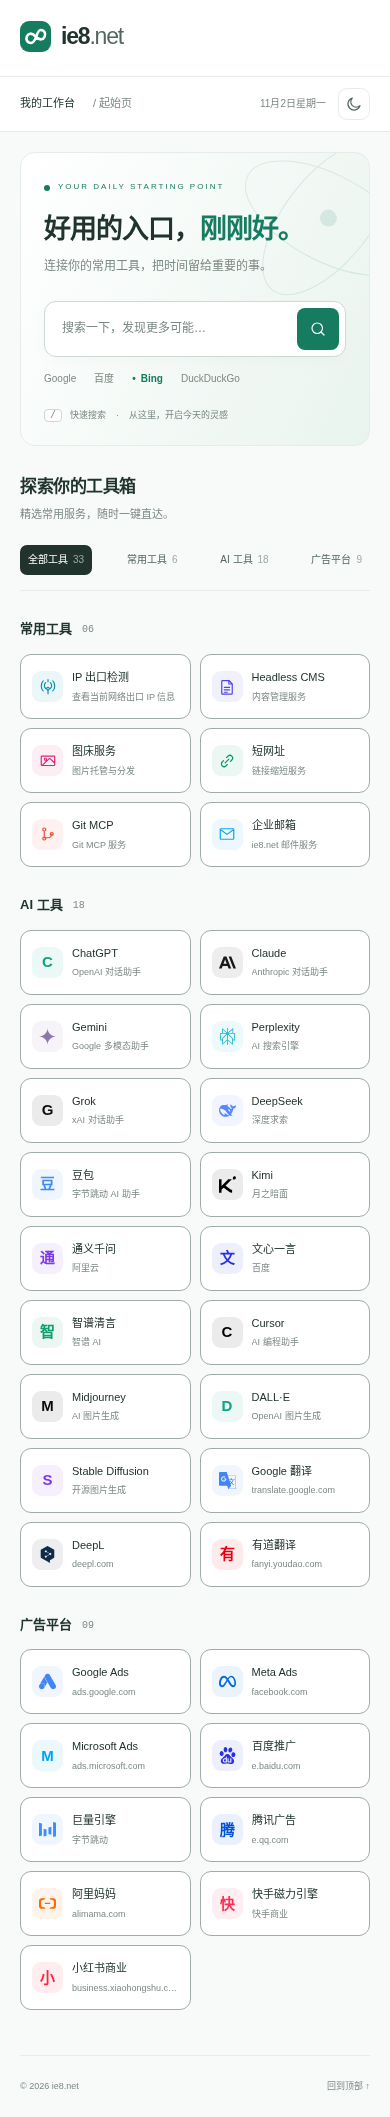
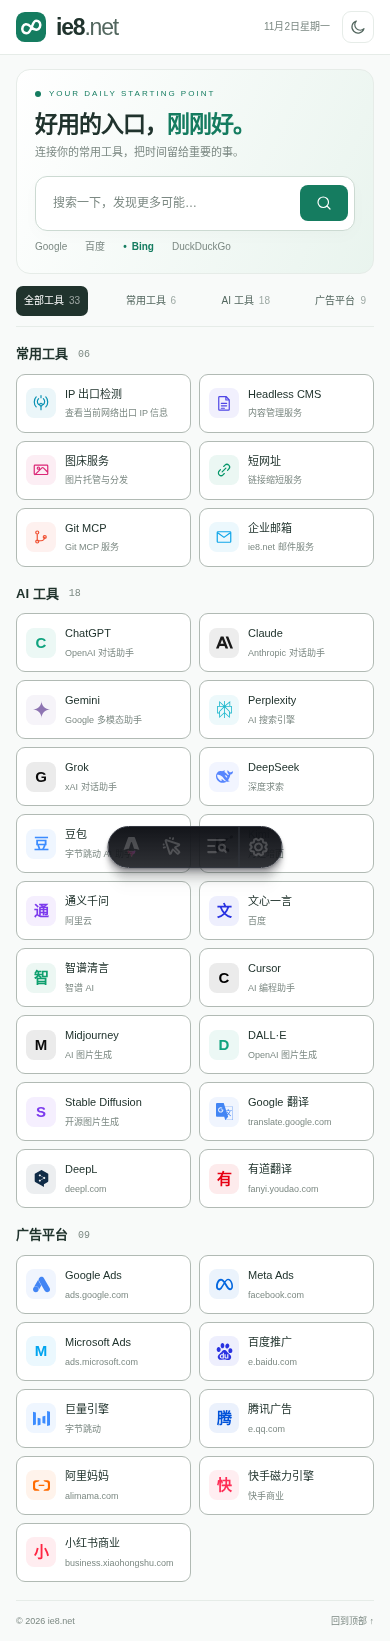
Remove sidebar and fit directory into one desktop screen (#2)

diff --git a/src/styles/global.css b/src/styles/global.css
@@ -246,17 +246,6 @@ a:focus-visible {
   height: 20px;
   display: block;
 }
-.sidebar {
-  position: fixed;
-  inset: 0 auto 0 0;
-  width: 226px;
-  background: var(--surface);
-  border-right: 1px solid var(--line);
-  padding: 34px 22px;
-  display: flex;
-  flex-direction: column;
-  z-index: 30;
-}
 .brand-home {
   padding: 0 9px;
 }
@@ -276,56 +265,6 @@ a:focus-visible {
   font-weight: 400;
   color: var(--text-2);
 }
-.sidebar-label {
-  font-size: 10px;
-  letter-spacing: 2px;
-  color: var(--text-muted);
-  margin: 55px 14px 16px;
-}
-.side-nav {
-  display: flex;
-  flex-direction: column;
-  gap: 8px;
-}
-.side-nav a {
-  display: flex;
-  align-items: center;
-  gap: 13px;
-  padding: 12px 15px;
-  border-radius: 9px;
-  color: var(--text-2);
-  font-size: 13px;
-}
-.side-nav a:hover,
-.side-nav a.is-active {
-  background: var(--accent-soft);
-  color: var(--accent);
-}
-.side-nav a > span {
-  margin-left: auto;
-}
-.sidebar-bottom {
-  margin-top: auto;
-  padding: 25px 12px 0;
-}
-.mini-mark {
-  font-size: 38px;
-  color: var(--line-strong);
-  font-weight: 600;
-}
-.sidebar-bottom strong {
-  font-size: 11px;
-  font-weight: 500;
-}
-.sidebar-bottom p {
-  font-size: 10px;
-  color: var(--text-muted);
-  margin: 6px 0 24px;
-}
-.sidebar-bottom a {
-  font-size: 11px;
-  color: var(--text-muted);
-}
 .workspace {
   margin-left: 226px;
 }
@@ -338,10 +277,6 @@ a:focus-visible {
   font-size: 12px;
   border-bottom: 1px solid var(--line);
   background: var(--surface);
-}
-.breadcrumb {
-  color: var(--text-muted);
-  margin-left: 15px;
 }
 .topbar-actions {
   display: flex;
@@ -849,5 +784,206 @@ h1 > span {
   *::before,
   *::after {
     transition: none !important;
+  }
+}
+
+/* Compact directory: all 33 links remain visible without a sidebar. */
+.workspace {
+  margin-left: 0;
+}
+.topbar {
+  height: 58px;
+  padding: 0 32px;
+}
+.brand-home {
+  padding: 0;
+}
+.logo-mark {
+  width: 30px;
+  height: 30px;
+}
+.logo-word {
+  font-size: 23px;
+}
+.page-content {
+  max-width: 1600px;
+  padding: 18px 32px 0;
+}
+.hero-band {
+  padding: 21px 26px;
+  border-radius: 14px;
+}
+.hero-band-inner {
+  max-width: none;
+  display: grid;
+  grid-template-columns: 1fr minmax(380px, 1fr);
+  column-gap: 40px;
+  align-items: center;
+}
+.eyebrow {
+  grid-column: 1;
+  font-size: 8px;
+}
+h1 {
+  grid-column: 1;
+  font-size: 26px;
+  margin: 8px 0 3px;
+}
+.tagline {
+  grid-column: 1;
+  margin: 0;
+  font-size: 11px;
+}
+.hero-search {
+  grid-column: 2;
+  grid-row: 1 / 4;
+}
+.hero-orbit,
+.search-hint {
+  display: none;
+}
+.engine-tabs {
+  margin-top: 8px;
+}
+.search-submit {
+  padding: 9px 15px;
+}
+#search-input {
+  padding: 9px 12px;
+}
+.cat-nav {
+  margin-top: 14px;
+  padding-bottom: 10px;
+}
+.section {
+  margin-top: 15px;
+}
+.section-title {
+  margin-bottom: 9px;
+}
+.link-grid {
+  grid-template-columns: repeat(6, minmax(0, 1fr));
+  gap: 8px;
+}
+.link-item {
+  padding: 11px 10px;
+  gap: 9px;
+  border-radius: 9px;
+}
+.card-icon-mono {
+  width: 30px;
+  height: 30px;
+  border-radius: 8px;
+  font-size: 15px;
+}
+.card-icon-mono .icon {
+  width: 17px;
+  height: 17px;
+}
+.link-name {
+  font-size: 12px;
+}
+.link-desc {
+  font-size: 10px;
+}
+.card-arrow {
+  display: none;
+}
+.site-footer {
+  margin-top: 18px;
+  padding: 13px 0;
+}
+#recent-section .link-grid {
+  grid-template-columns: repeat(8, minmax(0, 1fr));
+}
+#recent-section .link-item {
+  padding: 7px 10px;
+}
+@media (max-width: 1199px) {
+  .link-grid {
+    grid-template-columns: repeat(4, minmax(0, 1fr));
+  }
+  .page-content {
+    padding: 16px 24px 0;
+  }
+  .hero-band-inner {
+    column-gap: 20px;
+  }
+  h1 {
+    font-size: 23px;
+  }
+  #recent-section .link-grid {
+    grid-template-columns: repeat(4, minmax(0, 1fr));
+  }
+}
+@media (max-width: 760px) {
+  .topbar {
+    height: 55px;
+    padding: 0 16px;
+  }
+  .today {
+    font-size: 10px;
+  }
+  .page-content {
+    padding: 14px 16px 0;
+  }
+  .hero-band {
+    padding: 18px;
+  }
+  .hero-band-inner {
+    display: block;
+  }
+  h1 {
+    font-size: 23px;
+    margin: 7px 0 4px;
+  }
+  .hero-search {
+    margin-top: 14px;
+  }
+  .tagline {
+    font-size: 11px;
+  }
+  .link-grid,
+  #recent-section .link-grid {
+    grid-template-columns: repeat(2, minmax(0, 1fr));
+  }
+  .cat-nav {
+    margin-top: 12px;
+  }
+  .section {
+    margin-top: 17px;
+  }
+  .link-item {
+    padding: 11px 9px;
+  }
+  .link-name {
+    font-size: 11px;
+  }
+  .link-desc {
+    font-size: 9px;
+  }
+}
+@media (min-width: 1200px) {
+  .topbar {
+    height: 50px;
+  }
+  .page-content {
+    padding-top: 12px;
+  }
+  .hero-band {
+    padding-block: 14px;
+  }
+  .cat-nav {
+    margin-top: 10px;
+  }
+  .section {
+    margin-top: 12px;
+  }
+  .link-item {
+    padding-block: 7px;
+  }
+  .site-footer {
+    margin-top: 14px;
+    padding-block: 10px;
   }
 }

diff --git a/docs/design/README.md b/docs/design/README.md
@@ -2,7 +2,7 @@
 
 薄荷绿与中性底色的简洁工作台，包含独立设计的 8 / 无限符号矢量标志。
 
-- 桌面固定侧栏、手机双列布局、深浅色切换。
+- 移除左侧导航，使用顶部品牌栏与紧凑六列卡片；1366×768 桌面尺寸可一屏显示全部 33 个入口与页脚，手机保留双列布局、深浅色切换。
 - 保留原有 33 个入口、搜索引擎偏好与最近访问记录。
 - 新增分类筛选、`/` 聚焦搜索、服务图标与说明。
 - 使用系统字体，无外部字体加载请求。
